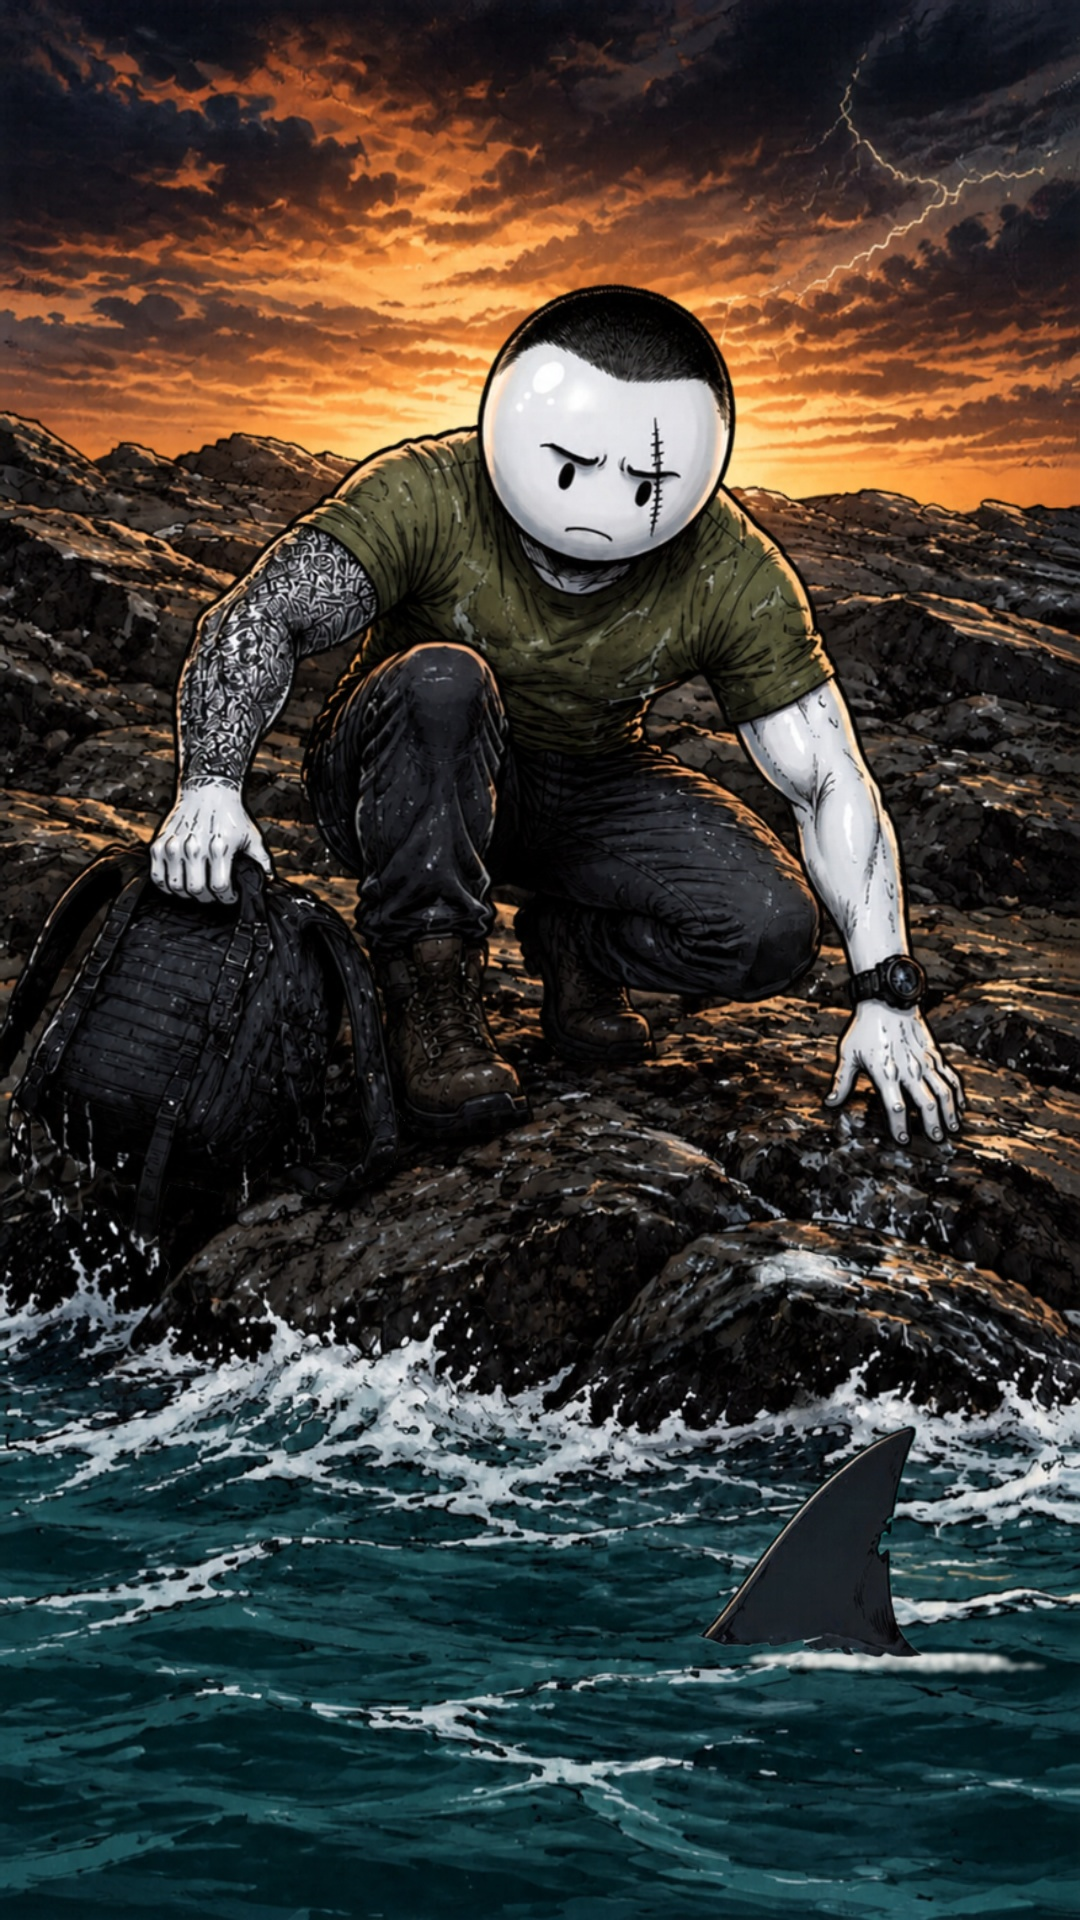
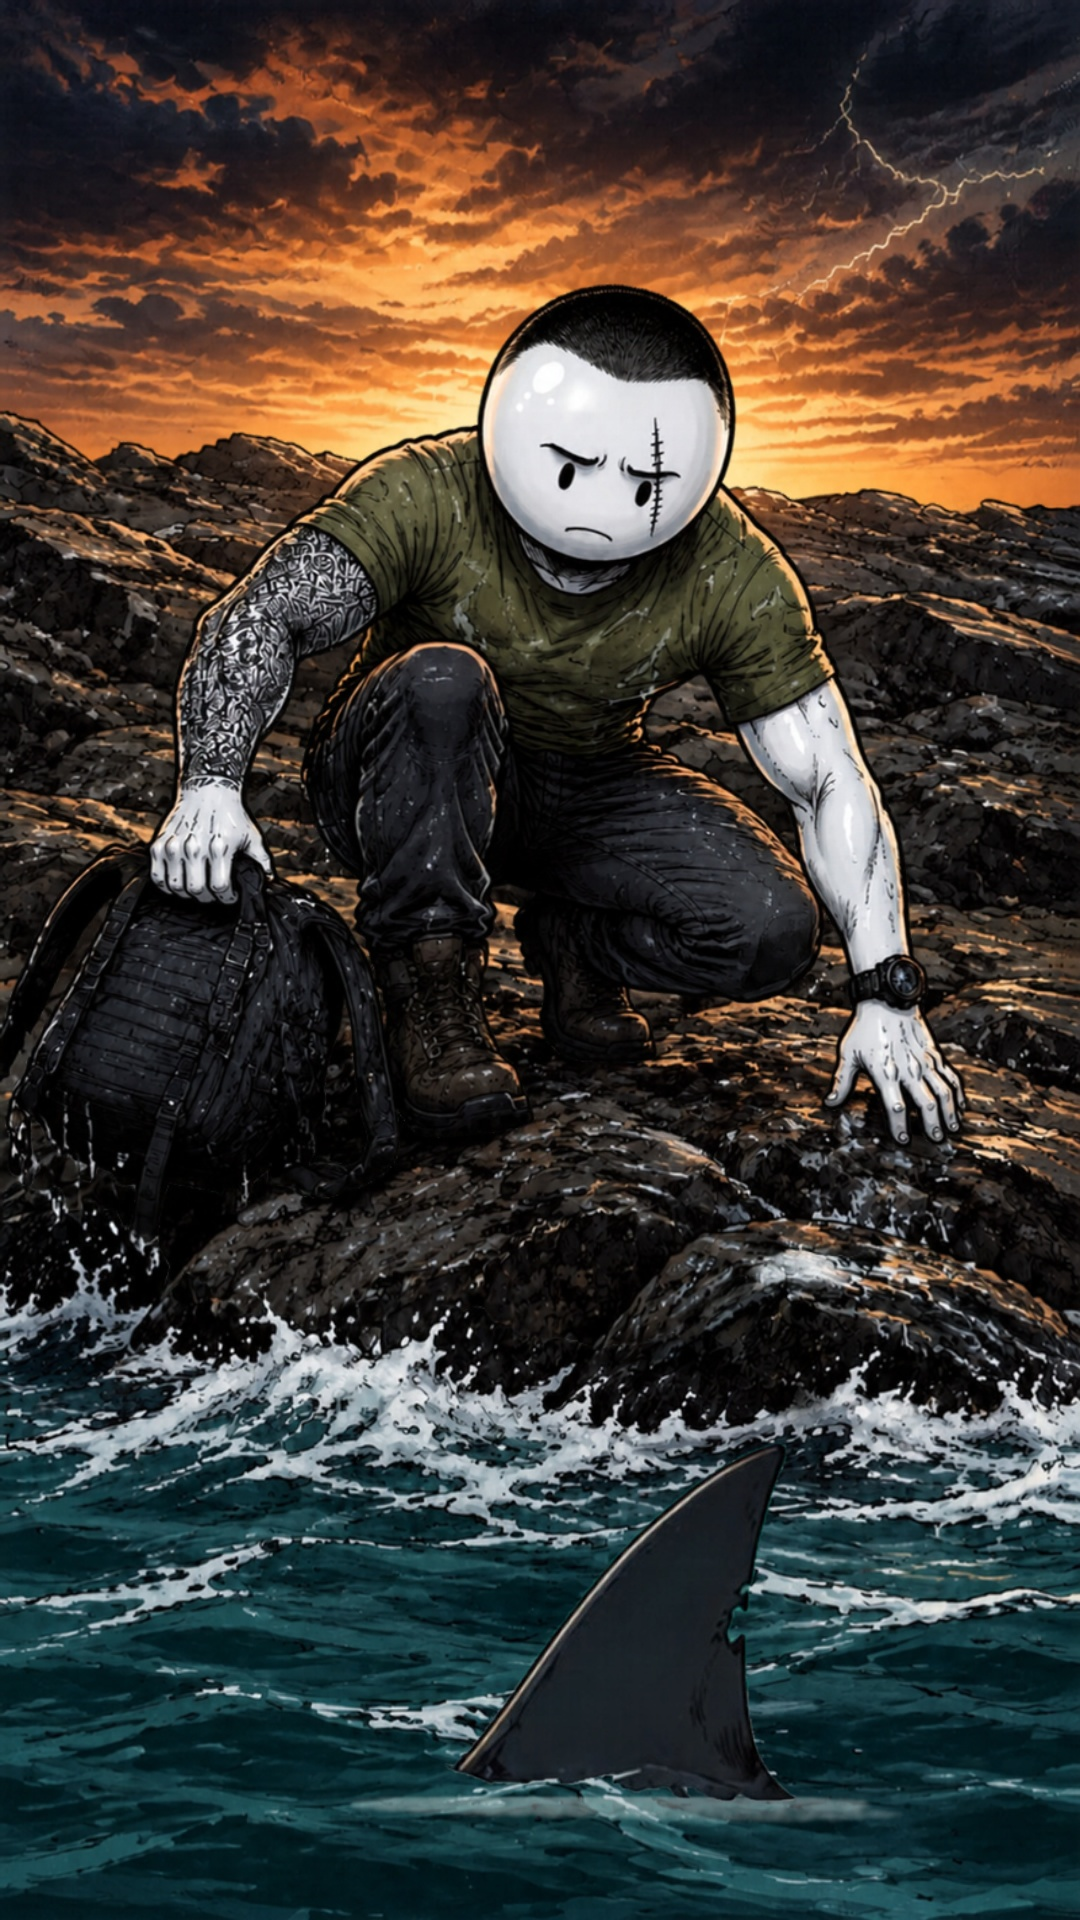
ADA 9: 15 yüzgeç büyütüldü (15-yuzgec.py)
Claude-Session: https://claude.ai/code/session_014JxJGGMAcsX945kBrKhihb

Changed region(s): [[0.3361, 0.7188, 0.9472, 0.9688]]

diff --git a/hikaye-video/projeler/ada9/15-yuzgec.py b/hikaye-video/projeler/ada9/15-yuzgec.py
@@ -1,0 +1,39 @@
+#!/usr/bin/env python3
+"""15: Canva'dan gelen tam boy Kemal görseline, 09b'deki çentikli köpekbalığı yüzgecini (büyütülmüş) ve köpük izini ekler.
+Kullanım: python3 15-yuzgec.py <15kemal.jpg> <09b.jpg> <cikti.jpg> [olcek=1.9]"""
+import sys, cv2, numpy as np
+k = cv2.imread(sys.argv[1]); b = cv2.imread(sys.argv[2]); out_path = sys.argv[3]
+sc = float(sys.argv[4]) if len(sys.argv) > 4 else 1.9
+roi = b[1045:1300, 690:960]
+V = cv2.cvtColor(roi, cv2.COLOR_BGR2HSV)[..., 2]
+fin = (V < 80).astype(np.uint8) * 255
+n, lab, st, _ = cv2.connectedComponentsWithStats(fin)
+fin = (lab == 1 + int(np.argmax(st[1:, 4]))).astype(np.uint8) * 255
+fin = cv2.morphologyEx(fin, cv2.MORPH_CLOSE, np.ones((5, 5), np.uint8))
+roi = cv2.resize(roi, None, fx=sc, fy=sc, interpolation=cv2.INTER_CUBIC)
+fin = cv2.resize(fin, None, fx=sc, fy=sc, interpolation=cv2.INTER_CUBIC)
+fin = (fin > 127).astype(np.uint8) * 255
+m = cv2.GaussianBlur(fin, (0, 0), 1.0).astype(np.float32)[..., None] / 255
+h, w = roi.shape[:2]
+H, W = k.shape[:2]
+base_y = 1800; cx_t = 620                       # yüzgecin taban çizgisi ve yatay konumu
+ys = np.where(fin.sum(axis=1) > 0)[0]; xs = np.where(fin.sum(axis=0) > 0)[0]
+tx = int(cx_t - (xs.min() + xs.max()) / 2); ty = int(base_y - ys.max())
+out = k.astype(np.float32)
+fcol = roi.astype(np.float32) * 0.85
+# köpük: tabanda kırık, yumuşak iz
+rng = np.random.default_rng(2)
+nz = cv2.GaussianBlur(rng.random((H, W)).astype(np.float32), (0, 0), 3); nz = (nz - nz.min()) / (nz.max() - nz.min())
+foam = np.zeros((H, W), np.float32)
+cx = cx_t; fw = int((xs.max() - xs.min()) * 0.75)
+cv2.ellipse(foam, (cx - 10, base_y + 4), (fw, 12), 0, 0, 360, 1, -1)
+cv2.ellipse(foam, (cx + int(fw * .5), base_y + 14), (int(fw * .6), 7), 0, 0, 360, 0.8, -1)
+foam = cv2.GaussianBlur(foam, (0, 0), 3)
+foam = np.clip(foam * 1.4 + nz * 0.9 - 0.85, 0, 1); foam[:base_y - 3, :] = 0
+foam = cv2.GaussianBlur(foam, (0, 0), 1.2)[..., None] * 0.35
+out = out * (1 - foam) + np.array([238, 242, 242], np.float32) * foam
+y0, x0 = max(0, ty), max(0, tx); y1, x1 = min(H, ty + h), min(W, tx + w)
+a = m[y0 - ty:y1 - ty, x0 - tx:x1 - tx]
+out[y0:y1, x0:x1] = out[y0:y1, x0:x1] * (1 - a) + fcol[y0 - ty:y1 - ty, x0 - tx:x1 - tx] * a
+cv2.imwrite(out_path, np.clip(out, 0, 255).astype(np.uint8), [cv2.IMWRITE_JPEG_QUALITY, 95])
+print('tamam', out_path, 'fin kutusu', tx, ty, w, h)
